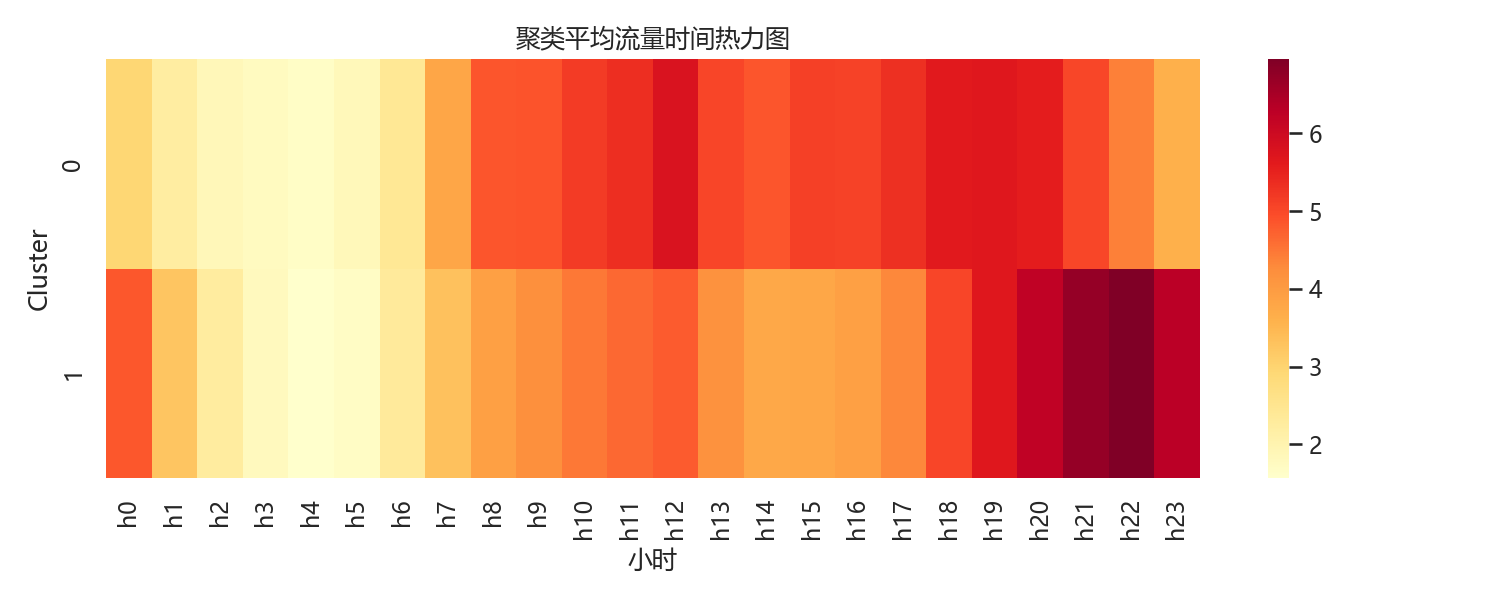
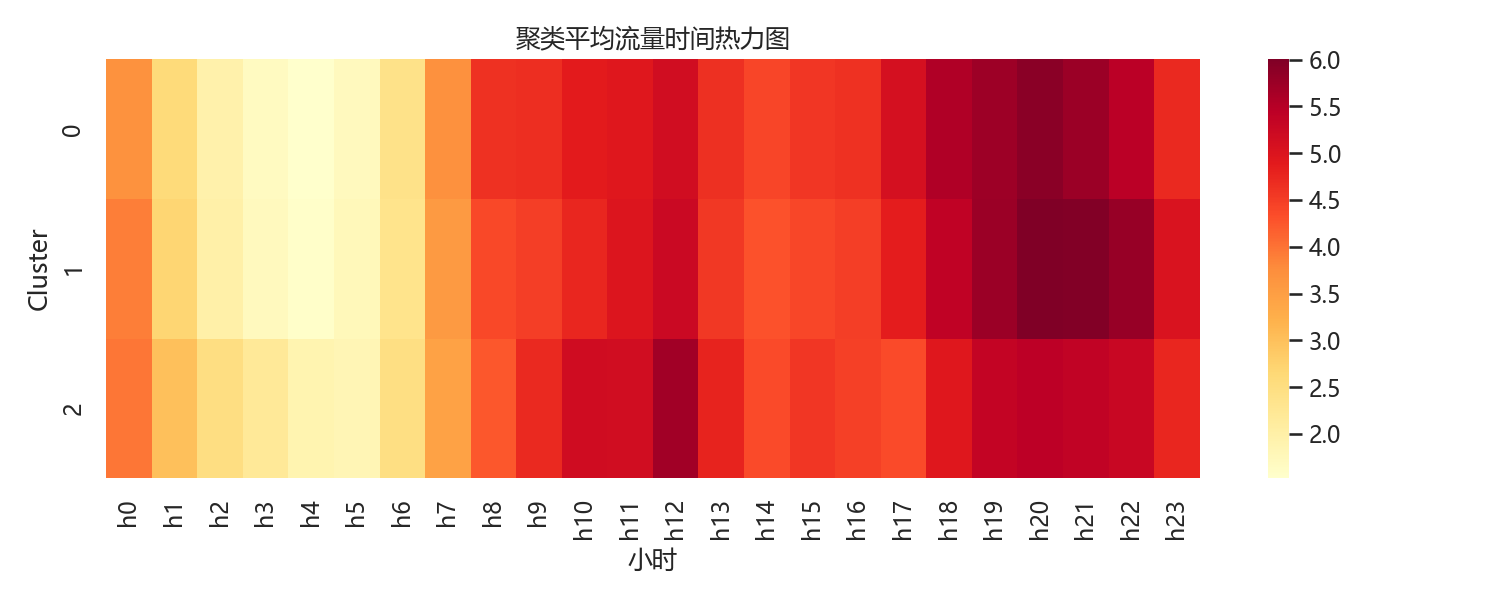
feat: 峰均比优化

diff --git a/section5_advanced.py b/section5_advanced.py
@@ -12,7 +12,7 @@ import seaborn as sns
 
 from sklearn.cluster import KMeans
 from sklearn.decomposition import PCA
-from sklearn.metrics import silhouette_score
+from sklearn.metrics import calinski_harabasz_score, davies_bouldin_score, silhouette_score
 
 
 DATA_PATH = Path("all_final_data_with_attributes.csv")
@@ -157,24 +157,46 @@ def main() -> None:
     flow_hour_mean = safe_mean(flow_hour_sum, flow_hour_cnt)
     user_hour_mean = safe_mean(user_hour_sum, user_hour_cnt)
 
-    profile_sum = np.nansum(flow_hour_mean, axis=1, keepdims=True)
-    profile_share = flow_hour_mean / profile_sum
-    valid_mask = np.isfinite(profile_share).all(axis=1)
-    profile_share = profile_share[valid_mask]
+    flow_profile_sum = np.nansum(flow_hour_mean, axis=1, keepdims=True)
+    user_profile_sum = np.nansum(user_hour_mean, axis=1, keepdims=True)
+    flow_profile_share = flow_hour_mean / flow_profile_sum
+    user_profile_share = user_hour_mean / user_profile_sum
+    valid_mask = np.isfinite(flow_profile_share).all(axis=1) & np.isfinite(
+        user_profile_share
+    ).all(axis=1)
+    flow_profile_share = flow_profile_share[valid_mask]
+    user_profile_share = user_profile_share[valid_mask]
     valid_cells = np.array(top_cells)[valid_mask]
 
-    profile_df = pd.DataFrame(profile_share, columns=[f"h{h}" for h in range(24)])
+    profile_df = pd.DataFrame(
+        np.hstack([flow_profile_share, user_profile_share]),
+        columns=[f"flow_h{h}" for h in range(24)] + [f"user_h{h}" for h in range(24)],
+    )
     cell_meta = cell_agg[cell_agg["CELL_ID"].isin(valid_cells)].copy()
     cell_meta = cell_meta.set_index("CELL_ID").loc[valid_cells].reset_index()
+
+    extra_cols = [
+        "flow_mean",
+        "user_mean",
+        "flow_per_user",
+        "activity_mean",
+    ]
+    extra_df = cell_meta[extra_cols].copy()
+    extra_df = (extra_df - extra_df.mean()) / extra_df.std()
+    profile_df = pd.concat([profile_df.reset_index(drop=True), extra_df], axis=1)
 
     ks = list(range(2, 9))
     inertias = []
     silhouettes = []
+    ch_scores = []
+    db_scores = []
     for k in ks:
         kmeans = KMeans(n_clusters=k, random_state=42, n_init=10)
         labels = kmeans.fit_predict(profile_df)
         inertias.append(kmeans.inertia_)
         silhouettes.append(silhouette_score(profile_df, labels))
+        ch_scores.append(calinski_harabasz_score(profile_df, labels))
+        db_scores.append(davies_bouldin_score(profile_df, labels))
 
     best_k = ks[int(np.argmax(silhouettes))]
     final_kmeans = KMeans(n_clusters=best_k, random_state=42, n_init=10)
@@ -195,8 +217,23 @@ def main() -> None:
     plt.ylabel("Silhouette Score")
     save_fig("fig02_silhouette_scores.png")
 
+    plt.figure(figsize=(6, 4))
+    plt.plot(ks, ch_scores, marker="o", color="#4C78A8")
+    plt.title("Calinski-Harabasz \u66f2\u7ebf")
+    plt.xlabel("K")
+    plt.ylabel("CH Score")
+    save_fig("fig02b_ch_scores.png")
+
+    plt.figure(figsize=(6, 4))
+    plt.plot(ks, db_scores, marker="o", color="#72B7B2")
+    plt.title("Davies-Bouldin \u66f2\u7ebf")
+    plt.xlabel("K")
+    plt.ylabel("DB Score")
+    save_fig("fig02c_db_scores.png")
+
     cluster_profiles = (
-        pd.DataFrame(profile_df.assign(cluster=labels))
+        pd.DataFrame(flow_profile_share, columns=[f"h{h}" for h in range(24)])
+        .assign(cluster=labels)
         .groupby("cluster")
         .mean()
         * 100
@@ -260,7 +297,6 @@ def main() -> None:
         "flow_cv",
         "peak_ratio",
         "activity_mean",
-        "par_mean",
     ]
     radar_data = cell_meta[radar_cols].copy()
     radar_data = (radar_data - radar_data.mean()) / radar_data.std()
@@ -274,7 +310,6 @@ def main() -> None:
         "\u6d41\u91cfCV",
         "\u5cf0\u5747\u6bd4",
         "\u6d3b\u8dc3\u5ea6",
-        "PAR",
     ]
     build_radar(radar_names, radar_values, radar_labels)
     save_fig("fig08_cluster_radar.png")
@@ -293,7 +328,6 @@ def main() -> None:
         "flow_cv",
         "peak_ratio",
         "activity_mean",
-        "par_mean",
         "silent_ratio",
     ]
     corr_df = cell_agg[corr_cols].corr()
@@ -322,8 +356,8 @@ def main() -> None:
     target_df = pd.concat(target_records, ignore_index=True)
     target_df["DATETIME_KEY"] = pd.to_datetime(target_df["DATETIME_KEY"], errors="coerce")
     target_df = target_df.dropna(subset=["DATETIME_KEY"]).set_index("DATETIME_KEY")
-    hourly = target_df.resample("H")[["FLOW_SUM", "USER_COUNT"]].sum()
-    hourly = hourly.asfreq("H", fill_value=0)
+    hourly = target_df.resample("h")[["FLOW_SUM", "USER_COUNT"]].sum()
+    hourly = hourly.asfreq("h", fill_value=0)
 
     test_hours = TEST_DAYS * 24
     if len(hourly) <= test_hours:
@@ -408,6 +442,54 @@ def main() -> None:
     plt.ylabel("\u9884\u6d4b\u503c")
     save_fig("fig19_actual_vs_pred_scatter_user.png")
 
+    high_load_threshold = cell_agg["flow_sum"].quantile(0.99)
+    silent_threshold = 0.5
+    high_load_cells = cell_agg[cell_agg["flow_sum"] >= high_load_threshold]
+    silent_cells = cell_agg[cell_agg["silent_ratio"] >= silent_threshold]
+
+    def plot_scene_type(df: pd.DataFrame, label: str, file_prefix: str) -> None:
+        scene_counts = df["SCENE"].value_counts().head(10)
+        plt.figure(figsize=(8, 4))
+        sns.barplot(x=scene_counts.index.astype(int).astype(str), y=scene_counts.values, color="#4C78A8")
+        plt.title(f"{label}\u573a\u666f\u5206\u5e03")
+        plt.xlabel("\u573a\u666f\uff08SCENE\uff09")
+        plt.ylabel("\u5c0f\u533a\u6570\u91cf")
+        save_fig(f"fig20_{file_prefix}_scene_bar.png")
+
+        type_counts = df["TYPE"].value_counts().sort_index()
+        plt.figure(figsize=(6, 4))
+        sns.barplot(x=type_counts.index.astype(int).astype(str), y=type_counts.values, color="#F58518")
+        plt.title(f"{label}TYPE \u5206\u5e03")
+        plt.xlabel("TYPE")
+        plt.ylabel("\u5c0f\u533a\u6570\u91cf")
+        save_fig(f"fig21_{file_prefix}_type_bar.png")
+
+    if not high_load_cells.empty:
+        plot_scene_type(high_load_cells, "高负荷", "highload")
+        top_highload = high_load_cells.sort_values("flow_sum", ascending=False).head(20)
+        plt.figure(figsize=(10, 4))
+        labels = top_highload["CELL_ID"].astype(str)
+        sns.barplot(x=labels, y=top_highload["flow_sum"], color="#E45756")
+        plt.title("TOP20 高负荷小区总流量")
+        plt.xlabel("小区ID")
+        plt.ylabel("总流量（MB）")
+        plt.xticks(rotation=30, ha="right")
+        save_fig("fig22_highload_top20.png")
+        top_highload.to_csv(OUT_DIR / "highload_top20.csv", index=False)
+
+    if not silent_cells.empty:
+        plot_scene_type(silent_cells, "静默", "silent")
+        top_silent = silent_cells.sort_values("silent_ratio", ascending=False).head(20)
+        plt.figure(figsize=(10, 4))
+        labels = top_silent["CELL_ID"].astype(str)
+        sns.barplot(x=labels, y=top_silent["silent_ratio"], color="#72B7B2")
+        plt.title("TOP20 静默小区比例")
+        plt.xlabel("小区ID")
+        plt.ylabel("静默比例")
+        plt.xticks(rotation=30, ha="right")
+        save_fig("fig23_silent_top20.png")
+        top_silent.to_csv(OUT_DIR / "silent_top20.csv", index=False)
+
     stats_out = {
         "clustering": {
             "k": int(best_k),
@@ -417,6 +499,8 @@ def main() -> None:
                 int(cid): int(cluster_profiles.loc[cid].values.argmax())
                 for cid in cluster_profiles.index
             },
+            "ch_scores": dict(zip(ks, ch_scores)),
+            "db_scores": dict(zip(ks, db_scores)),
         },
         "forecast": {
             "target_cell": int(target_cell),
@@ -425,6 +509,14 @@ def main() -> None:
             "flow_mape": float(flow_mape),
             "user_mae": float(user_mae),
             "user_mape": float(user_mape),
+        },
+        "highload": {
+            "threshold": float(high_load_threshold),
+            "count": int(high_load_cells.shape[0]),
+        },
+        "silent": {
+            "threshold": float(silent_threshold),
+            "count": int(silent_cells.shape[0]),
         },
     }
 
